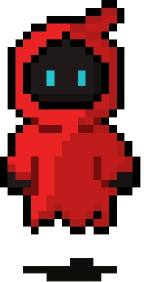
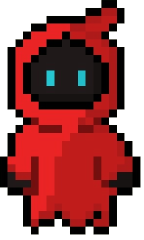
Added wisp image, added ability to hit and take damage from wisps and boss, added boss HP bar

diff --git a/minigame.py b/minigame.py
@@ -30,14 +30,14 @@ def generateobject(classtype,objectrenderlist):
             snaketype = "Big"
         snake=snakeenemy(600,193,pictures["enemysnake"]["width"],pictures["enemysnake"]["height"],"enemysnake",snakehitpoint,snaketype,5)
         objectrenderlist.append(snake)
-    elif classtype == "enemymeteor":       
-        meteor = meteors(random.randint(50,550),-100,pictures["enemymeteor"]["width"],pictures["enemymeteor"]["height"],"enemymeteor")
+    elif classtype == "neutralmeteor":       
+        meteor = meteors(random.randint(50,550),-100,pictures["neutralmeteor"]["width"],pictures["neutralmeteor"]["height"],"neutralmeteor")
         objectrenderlist.append(meteor)
     elif classtype == "enemydragon":
         dragon = dragonenemy(BGWIDTH-60,random.randint(34,108),pictures["enemydragon"]["width"],pictures["enemydragon"]["height"],"enemydragon",10)
         objectrenderlist.append(dragon)
     elif classtype == "enemyghost":
-        ghost = ghostenemy(400,193,pictures["enemyghost"]["width"],pictures["enemyghost"]["height"],"enemyghost",5)
+        ghost = ghostenemy(500,193,pictures["enemyghost"]["width"],pictures["enemyghost"]["height"],"enemyghost",50,20,1,1)
         objectrenderlist.append(ghost)
     elif classtype == "critter":
         bunny=critters(0,GROUNDLEVEL-31,31,31,"critter",[(449,166,31,31),(502,166,31,31),(554,166,31,31),(605,166,31,31)])
@@ -82,7 +82,7 @@ if __name__=="__main__":
             "dimensions" :    (70,70),
             "width"  :        70,
             "height" :        70, },        
-        "enemymeteor": {
+        "neutralmeteor": {
             "surface":        pygame.transform.scale(pygame.image.load(os.path.join("Game Images","meteor(hitbox).png")),(30,80)),
             "dimensions" :    (30,80),
             "width"  :        30,
@@ -93,10 +93,10 @@ if __name__=="__main__":
             "width"  :        120,
             "height" :        40, },        
         "enemyghost":  {
-            "surface":        pygame.transform.scale(pygame.image.load(os.path.join("Game Images","ghost.png")),(35,70)),
-            "dimensions" :    (35,70),
+            "surface":        pygame.transform.scale(pygame.image.load(os.path.join("Game Images","ghost.png")),(35,60)),
+            "dimensions" :    (35,60),
             "width"  :        35,
-            "height" :        70, },           
+            "height" :        60, },           
         "gameoverpic" : {
             "surface":        pygame.transform.scale(pygame.image.load(os.path.join("Game Images","gameover.png")),(BGWIDTH,BGHEIGHT)),
             "dimensions" :    (BGWIDTH,BGHEIGHT),
@@ -162,6 +162,11 @@ if __name__=="__main__":
             "dimensions" :    (25,50),
             "width"  :        25,
             "height" :        50, },           
+        "enemywisp" :     {
+            "surface":        pygame.transform.scale(pygame.image.load(os.path.join("Game Images", "wisp.png")),(20,20)),
+            "dimensions" :    (20,20),
+            "width"  :        20,
+            "height" :        20, },  
         "shield" :      {
             "surface":        pygame.transform.scale(pygame.image.load(os.path.join("Game Images", "shield.png")),(69,69)),
             "dimensions" :    (69,69),
@@ -273,10 +278,11 @@ if __name__=="__main__":
 
     objectrenderlist = []
     generateobject("enemyghost",objectrenderlist)
+    ghostbosshpbar = displaybar(75,65,450,10,"bar",(150,0,0))
 
-    levelone = worldlevel(["enemysnake","critter","enemymeteor","enemyghost"],[(120,360),(180,420),(180,300),(-1,-1)],pictures["bgcastle"]["surface"])
-    leveltwo = worldlevel(["enemydragon","enemysnake","enemymeteor"],[(180,420),(120,360),(180,300)],pictures["bgdesert"]["surface"]) 
-    levelthree = worldlevel(["enemysnake","enemymeteor"],[(120,360),(180,300)],pictures["bgice"]["surface"]) 
+    levelone = worldlevel(["enemysnake","critter","neutralmeteor","enemyghost"],[(120,360),(180,420),(180,300),(-1,-1)],pictures["bgcastle"]["surface"])
+    leveltwo = worldlevel(["enemydragon","enemysnake","neutralmeteor"],[(180,420),(120,360),(180,300)],pictures["bgdesert"]["surface"]) 
+    levelthree = worldlevel(["enemysnake","neutralmeteor"],[(120,360),(180,300)],pictures["bgice"]["surface"]) 
     worldlist = [levelone,leveltwo,levelthree]
     stage = 0
     cstage = 0
@@ -356,13 +362,13 @@ if __name__=="__main__":
                 if objectrender.offscreen():
                     objectdeletelist.append(objectrender)
                 if objectrender.outofhealth():
-                    if (objectrender.classtype == "enemysnake" and objectrender.getsnaketype() == "Big") and objectrender.attacker != "enemymeteor":
+                    if (objectrender.classtype == "enemysnake" and objectrender.getsnaketype() == "Big") and objectrender.attacker != "neutralmeteor":
                         scoreboard.value += 3
                         scoreboard.dictionaryupdate()
                         snakekc.value += 1
                         snakekc.dictionaryupdate()
                         maincharacter.updateexperience(objectrender.experience)
-                    elif (objectrender.classtype == "enemysnake" or objectrender.classtype == "enemydragon") and objectrender.attacker != "enemymeteor":
+                    elif (objectrender.classtype == "enemysnake" or objectrender.classtype == "enemydragon") and objectrender.attacker != "neutralmeteor":
                         scoreboard.value += 1
                         scoreboard.dictionaryupdate()
                         if objectrender.classtype =="enemydragon":
@@ -379,7 +385,7 @@ if __name__=="__main__":
                 else:
                     objectrender.frameupdate()
                 #TO DO: WARNING - FRAME UPDATE CHANGES RENDER LIST 
-                if objectrender.classtype == "enemysnake" or objectrender.classtype == "enemydragon":
+                if "enemy" in objectrender.classtype:
                     if objectrender.checkcollision(sword.getobjectbody()) and sword.getswingstate():
                         objectrender.losehealth(1,"weapon")
                     if objectrender.checkcollision(maincharacter.getobjectbody()):
@@ -392,13 +398,13 @@ if __name__=="__main__":
                     if objectrender.checkcollision(maincharacter.getobjectbody()) and maincharacter.healthcap < 7:
                         objectdeletelist.append(objectrender)
                         maincharacter.healthcap += 1
-                if objectrender.classtype == "enemymeteor":
+                if objectrender.classtype == "neutralmeteor":
                     for otherobject in objectrenderlist:
                         if ((otherobject.classtype == "enemysnake" or otherobject.classtype == "enemydragon") 
                             and objectrender.checkcollision(otherobject.getobjectbody())):
                             otherobject.losehealth(otherobject.gethealth(),objectrender.classtype)  
                     if objectrender.checkcollision(maincharacter.getobjectbody()):
-                        maincharacter.losehealth(3,"enemymeteor")
+                        maincharacter.losehealth(3,"neutralmeteor")
                     if objectrender.y >= GROUNDLEVEL - 40:
                         explosioneffect = explosion(objectrender.x + (objectrender.width/2) - (pictures["explosion"]["width"]/2),
                                                     objectrender.y,
@@ -410,7 +416,7 @@ if __name__=="__main__":
                         objectdeletelist.append(objectrender)
                 if  "arrow" in objectrender.classtype:
                     for otherobject in objectrenderlist:
-                        if otherobject.classtype == "enemysnake" or otherobject.classtype == "enemydragon":
+                        if "enemy" in otherobject.classtype:
                             if objectrender.checkcollision(otherobject.getobjectbody()):
                                 if objectrender.classtype == "bigarrow":
                                     otherobject.losehealth(2,"bigarrow")
@@ -510,13 +516,7 @@ if __name__=="__main__":
         for x in range(maincharacter.getiframe()):
             screen.blit(pictures["shield"]["surface"],maincharacter.getposition())
         for objectrender in objectrenderlist:
-            if objectrender.classtype == "critter":
-                screen.blit(pictures[objectrender.classtype]["surface"],(objectrender.getposition()),objectrender.getcoordinates())
-            elif objectrender.classtype == "enemydragon":
-                screen.blit(pictures[objectrender.classtype]["surface"],objectrender.getposition())
-            elif objectrender.classtype == "explosion":
-                screen.blit(pictures[objectrender.classtype]["surface"],(objectrender.getposition()),objectrender.getcoordinates())  
-            elif objectrender.classtype == "enemysnake":
+            if objectrender.classtype == "enemysnake":
                 screen.blit(pictures[objectrender.classtype]["surface"],objectrender.getposition())
                 heartoffsets=0
                 for x in range(objectrender.gethealth()):
@@ -528,8 +528,9 @@ if __name__=="__main__":
                         screen.blit(pictures["heart"]["surface"],((objectrender.getmiddlex()-25/2)+25*heartoffsets,objectrender.y-35))
                     else:
                         screen.blit(pictures["heart"]["surface"],((objectrender.getmiddlex())+25*heartoffsets,objectrender.y-35))
-            else:
-                screen.blit(pictures[objectrender.classtype]["surface"],objectrender.getposition())
+            elif objectrender.classtype == "enemyghost":
+                ghostbosshpbar.drawobject(screen,pictures,objectrender.gethealthpercentage())
+            screen.blit(pictures[objectrender.classtype]["surface"],(objectrender.getposition()),objectrender.getcoordinates())  
 
         if paused:
             screen.blit(pictures["grayfilter"]["surface"],(0,0))

diff --git a/ghost.py b/ghost.py
@@ -1,23 +1,23 @@
-from drawunit import drawunit
+from combatants import combatant
 from snake import snakeenemy
 import random
 
-class ghostenemy(drawunit):
-    def __init__(self,x,y,width,height,classtype,experience):
-        drawunit.__init__(self,x,y,width,height,classtype)
-        self.iframe = 0
+class ghostenemy(combatant):
+    def __init__(self,x,y,width,height,classtype,experience,health,speed,atkpower):
+        combatant.__init__(self,x,y,width,height,classtype,experience,health,speed,atkpower)     
         self.steps = -1
-        self.health = 1
-        self.attacker = ""
-        self.experience = experience
+        self.maxhealth = 20
+    def gethealthpercentage(self):
+        return self.health / self.maxhealth
     def frameupdate(self,objectrenderlist):
+        combatant.frameupdate(self)
         self.y += self.steps
         if self.y <= 100:
             self.steps = 1
         if self.y >= 200:
             self.steps = -1
         if random.randint(0,60) == 1:
-            wisp = snakeenemy(self.x,self.y,20,20,"coin",1,"wisp",0)
+            wisp = snakeenemy(self.x,self.y,20,20,"enemywisp",1,"wisp",0)
             objectrenderlist.append(wisp)
 
         

diff --git a/combatants.py b/combatants.py
@@ -13,7 +13,10 @@ class combatant(drawunit):
         if self.iframe == 0:
             self.health = self.health - damage
             self.iframe = 30
-            self.attacker = classtype           
+            self.attacker = classtype    
+    def frameupdate(self):
+        if self.iframe > 0:
+            self.iframe -= 1       
     def outofhealth(self):
         if self.health <= 0:
             return True

diff --git a/drawunit.py b/drawunit.py
@@ -56,5 +56,7 @@ class drawunit:
             return True
     def outofhealth(self):
         return False
+    def getcoordinates(self):
+        return (0,0,self.width,self.height)
     
         
